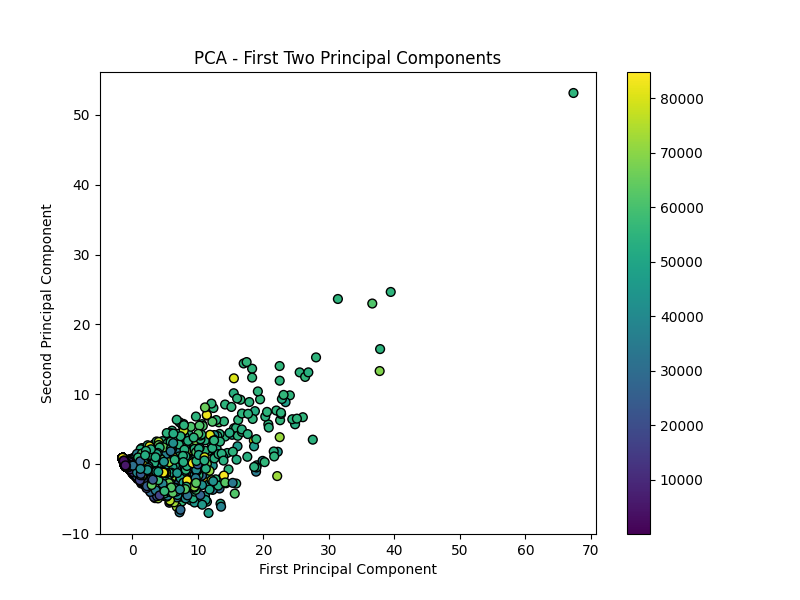
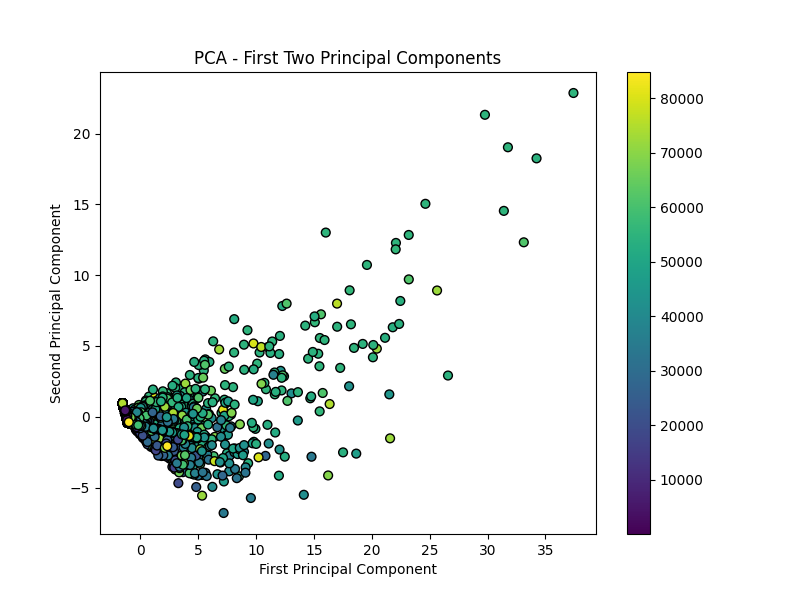
H

diff --git a/Code/preprocessing.py b/Code/preprocessing.py
@@ -18,17 +18,22 @@ if not os.path.exists(plot_dir):
 # Define file paths for saving plots
 missing_values_before_path = os.path.join(plot_dir, 'missing_values_before.png')
 missing_values_after_path = os.path.join(plot_dir, 'missing_values_after.png')
+missing_values_rows_path = os.path.join(plot_dir, 'missing_values_rows.png')
 original_data_before_norm_path = os.path.join(plot_dir, 'original_data_before_norm.png')
 standardized_data_after_norm_path = os.path.join(plot_dir, 'standardized_data_after_norm.png')
 explained_variance_path = os.path.join(plot_dir, 'explained_variance.png')
 pca_projection_path = os.path.join(plot_dir, 'pca_projection.png')
 
-# Load dataset
-df = pd.read_csv(data_path, header=None)
+# Load dataset and skip the first row
+df = pd.read_csv(data_path, header=None, skiprows=1)
 
 # Assign column names
 col_names = ['num1', 'num2', 'num3', 'num4', 'num5', 'num6', 'num7', 'num8', 'num9', 'num10', 'class']
 df.columns = col_names
+
+# Inspect the data for non-numeric values
+print(df.head())
+print(df.dtypes)
 
 # Convert numerical columns to float and handle errors
 for col in col_names[:-1]:
@@ -37,25 +42,36 @@ for col in col_names[:-1]:
 # Encode target class as categorical integer labels
 df['class'] = pd.Categorical(df['class']).codes
 
-# Plot original data (before handling missing values)
-plt.figure(figsize=(12, 6))
-sns.heatmap(df.isnull(), cbar=False, cmap='viridis')
-plt.title('Missing Values in Dataset')
+# Sample the data to reduce size for quicker processing (5% subset)
+df_sample = df.sample(frac=0.05, random_state=42)
+
+# Plot original data (before handling missing values) on the sampled data
+plt.figure(figsize=(20, 10))
+sns.heatmap(df_sample.isnull(), cbar=False, cmap='viridis', yticklabels=True)
+plt.title('Missing Values in Sampled Dataset')
 plt.savefig(missing_values_before_path)
-#plt.show()
+# plt.show()
 
-# Handle missing data
-df.dropna(inplace=True)
+# Save rows with missing values for further analysis
+df_missing = df_sample[df_sample.isnull().any(axis=1)]
 
-# Plot data after handling missing values
-plt.figure(figsize=(12, 6))
-sns.heatmap(df.isnull(), cbar=False, cmap='viridis')
-plt.title('After Handling Missing Values')
+if not df_missing.empty:
+    # Plot rows with missing values from the sampled data
+    plt.figure(figsize=(20, 10))
+    sns.heatmap(df_missing.isnull(), cbar=False, cmap='viridis', yticklabels=True)
+    plt.title('Rows with Missing Values in Sampled Data')
+    plt.savefig(missing_values_rows_path)
+    # plt.show()
+
+# Handle missing data by removing rows with any NaN values in the sampled data
+df_sample.dropna(inplace=True)
+
+# Plot data after handling missing values in the sampled data
+plt.figure(figsize=(20, 10))
+sns.heatmap(df_sample.isnull(), cbar=False, cmap='viridis', yticklabels=True)
+plt.title('After Handling Missing Values in Sampled Data')
 plt.savefig(missing_values_after_path)
-#plt.show()
-
-# Sample the data to reduce size for quicker processing
-df_sample = df.sample(frac=0.1, random_state=42)
+# plt.show()
 
 # Split dataset into features and target variable
 X = df_sample.drop('class', axis=1).values
@@ -71,7 +87,7 @@ plt.title('Original Data Before Normalization')
 plt.xlabel('Features')
 plt.ylabel('Value')
 plt.savefig(original_data_before_norm_path)
-#plt.show()
+# plt.show()
 
 # Standardize the data
 scaler = StandardScaler()
@@ -88,7 +104,7 @@ plt.title('Standardized Data After Normalization')
 plt.xlabel('Features')
 plt.ylabel('Standardized Value')
 plt.savefig(standardized_data_after_norm_path)
-#plt.show()
+# plt.show()
 
 # Apply PCA
 pca = PCA(n_components=10)
@@ -102,7 +118,7 @@ plt.xlabel('Number of Components')
 plt.ylabel('Cumulative Explained Variance')
 plt.title('Explained Variance by PCA Components')
 plt.savefig(explained_variance_path)
-#plt.show()
+# plt.show()
 
 # Plot first two principal components
 plt.figure(figsize=(8, 6))
@@ -112,4 +128,4 @@ plt.ylabel('Second Principal Component')
 plt.title('PCA - First Two Principal Components')
 plt.colorbar()
 plt.savefig(pca_projection_path)
-#plt.show()
+# plt.show()
